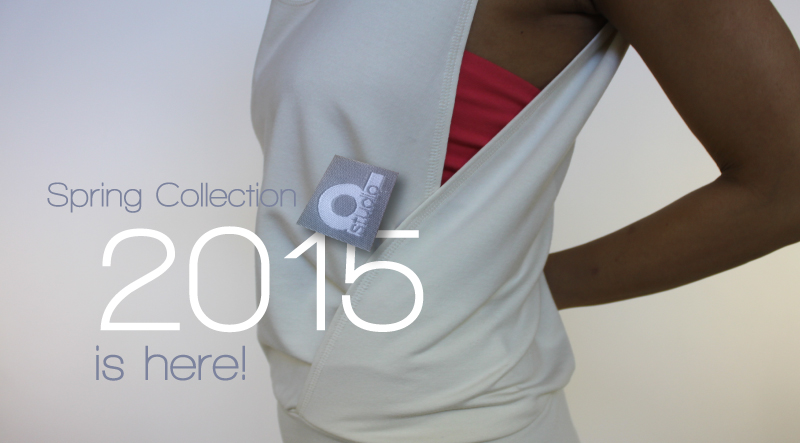
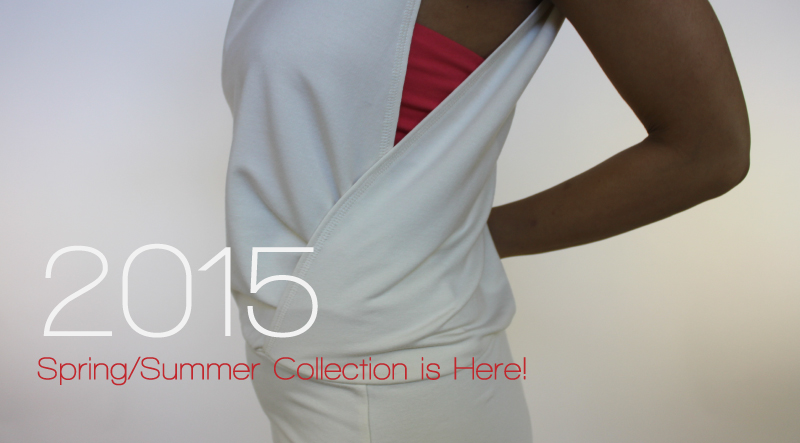
Main Slider image edits
Edited spring/summer main image...added new "White Tag" main image

diff --git a/index.html b/index.html
@@ -71,7 +71,7 @@
       		</div>
             
   <div class="home-slider-block">
-                <img src="images/mainimage4.jpg" alt="" />
+                <img src="images/mainimage5.jpg" alt="" />
                 <div class="large-image" id="img1">
 					<script type="text/javascript">
                             $(document).ready(function($) {
